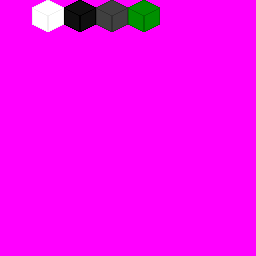
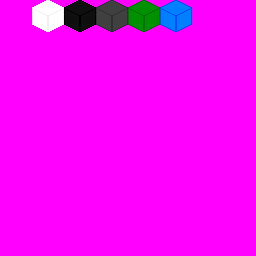
Start adding inventory support

Changed region(s): [[0.625, 0.0, 0.75, 0.125]]

diff --git a/Source/Main.c b/Source/Main.c
@@ -11,10 +11,9 @@
 
 #define AppName "BloccSpacc"
 
-#define GameTick 30
-
 SDL_Surface * Screen = NULL;
 SDL_Event Event;
+#define GameTick 30
 
 SDL_Surface * Cursorset = NULL;
 #define CursorsNum 2
@@ -26,17 +25,19 @@ SDL_Surface * DebugMsg = NULL;
 TTF_Font * DebugFont = NULL;
 SDL_Color DebugTextColor = { 80, 80, 80 };
 
+int SelectedBlock;
+bool InGame, InTitleMenu, InInventory;
 bool Quit, Recalc, DebugMode;
 
 // <https://www.libsdl.org/release/SDL-1.2.15/docs/html/guidetimeexamples.html>
-static Uint32 NextTime;
-Uint32 TimeLeft() {
+static Uint32 NextTickTime;
+Uint32 CalcTimeLeft() {
 	Uint32 Now;
 	Now = SDL_GetTicks();
-	if ( NextTime <= Now ) {
+	if ( NextTickTime <= Now ) {
 		return 0;
 	} else {
-		return NextTime - Now;
+		return NextTickTime - Now;
 	}
 }
 
@@ -58,7 +59,7 @@ struct xyz GetBlocksOnScreenNum() {
 	return Num;
 }
 
-bool Init() {
+bool SysInit() {
 	if ( SDL_Init ( SDL_INIT_EVERYTHING ) != 0 ) {
 		printf("[E] Error initializing SDL.\n");
 		return false;
@@ -139,10 +140,10 @@ void EventHandle() {
 		MoveCursor( 9 );
 	}
 	if ( UsedKeys.Place ) {
-		Map[CursorPos.y/BlockSize][CursorPos.z/BlockSize][CursorPos.x/BlockSize] = 0;
+		Map[CursorPos.y/BlockSize][CursorPos.z/BlockSize][CursorPos.x/BlockSize] = SelectedBlock;
 	}
 	if ( UsedKeys.Break ) {
-		Map[CursorPos.y/BlockSize][CursorPos.z/BlockSize][CursorPos.x/BlockSize] = 3;
+		Map[CursorPos.y/BlockSize][CursorPos.z/BlockSize][CursorPos.x/BlockSize] = 0;
 	}
 	UsedKeys.Up = false;
 	UsedKeys.Down = false;
@@ -154,7 +155,11 @@ void EventHandle() {
 	UsedKeys.Break = false;
 }
 
-void DrawMap( struct xyz ChunksNum ) { // TODO: Reoptimize this to draw only visible blocks
+void DrawInventory() {
+
+}
+
+void DrawMap() { // TODO: Reoptimize this to draw only visible blocks
 	for ( int y = 0; y < ChunksNum.y; y++ ) {
 		for ( int z = 0; z < ChunksNum.z; z++ ) {
 			for ( int x = 0; x < ChunksNum.x; x++ ) {
@@ -174,17 +179,29 @@ void SetCamera() {
 	int y = ( CursorPos.y + BlockSize/2 );
 	int z = ( CursorPos.z + BlockSize/2 );
 	struct xyz xyz = OrthoToIso ( x, y, z, 1 );
-    Camera.x = xyz.x - ScreenWidth/2;
-    Camera.z = xyz.z - ScreenHeight*0.80;
+	Camera.x = xyz.x - ScreenWidth/2;
+	Camera.z = xyz.z - ScreenHeight*0.80;
+}
+
+int GetCursorState() {
+/*
+	if ( CursorPos.y < BlockSize * (ChunksNum.y - 1) ) {
+		return -1;
+	}
+*/
+	return 1;
 }
 
 void DrawCursor() {
 	struct xyz CursorCoords = OrthoToIso ( CursorPos.x, CursorPos.y, CursorPos.z, 1 );
-	DrawSurf(
-		CursorCoords.x - Camera.x - BlockSize/2,
-		CursorCoords.z - Camera.z - BlockSize/2 - CursorPos.y/2,
-		Cursorset, & Cursors [1], Screen
-	);
+	int CursorState = GetCursorState();
+	if ( CursorState != -1 ) {
+		DrawSurf(
+			CursorCoords.x - Camera.x - BlockSize/2,
+			CursorCoords.z - Camera.z - BlockSize/2 - CursorPos.y/2,
+			Cursorset, & Cursors [CursorState], Screen
+		);
+	}
 }
 
 void DrawDebug() { // There's a memory leak somewhere here
@@ -232,22 +249,10 @@ void SetRandomNoiseMap() {
 	}
 }
 
-int main( int argc, char* args[] ) {
-	printf("[I] Starting!\n");
-	srand( time( NULL ) );
-
-	if ( !Init() ) {
-		printf("[E] Error initializing SDL.\n");
-		return 1;
-	}
-	if ( !LoadAssets() ) {
-		printf("[E] Error loading assets.\n");
-		return 1;
-	}
-
+void GameInit() {
 	for ( int i = 0; i < CursorsNum; i++ ) {
-		Cursors [i].x = 0;
-		Cursors [i].y = BlockSize * i;
+		Cursors [i].x = BlockSize * i;
+		Cursors [i].y = 0;
 		Cursors [i].w = BlockSize;
 		Cursors [i].h = BlockSize;
 	}
@@ -264,57 +269,82 @@ int main( int argc, char* args[] ) {
 
 	SetRandomNoiseMap();
 	CursorPos.x = BlockSize * (ChunksNum.x - 1);
-	CursorPos.y = 0;
+	CursorPos.y = BlockSize * (ChunksNum.y - 1);
 	CursorPos.z = BlockSize * (ChunksNum.z - 1);
 
+	SelectedBlock = 2;
 	Recalc = true;
+	InGame = true;
+}
+
+int main( int argc, char* args[] ) {
+	printf("[I] Starting!\n");
+	srand( time( NULL ) );
+
+	if ( !SysInit() ) {
+		printf("[E] Error initializing SDL.\n");
+		return 1;
+	}
+	if ( !LoadAssets() ) {
+		printf("[E] Error loading assets.\n");
+		return 1;
+	}
+	GameInit();
 
 	while ( !Quit ) {
-		NextTime = SDL_GetTicks() + GameTick;
+		NextTickTime = SDL_GetTicks() + GameTick;
 		while ( SDL_PollEvent( & Event ) ) {
 			Recalc = true;
 			if ( Event.type == SDL_QUIT ) {
 				Quit = true;
 			}
-			else if ( Event.type == SDL_KEYDOWN ) {
-				if ( Event.key.keysym.sym == KeyEsc ) {
-					Quit = true;
-				}
-			}
 			else if ( Event.type == SDL_KEYUP ) {
-				if ( Event.key.keysym.sym == KeyDebug ) {
+				if ( Event.key.keysym.sym == KeyEsc ) {
+					if ( InGame && !InInventory ) {
+						Quit = true;
+					}
+					if ( InInventory ) {
+						InInventory = false;
+					}
+				}
+				else if ( Event.key.keysym.sym == KeyDebug ) {
 					DebugMode = !DebugMode;
 				}
-				if ( Event.key.keysym.sym == KeyGenFlatMap ) {
+				else if ( Event.key.keysym.sym == KeyInventory ) {
+					if ( InInventory ) {
+						InInventory = false;
+					} else {
+						InInventory = true;
+					}
+				}
+				else if ( Event.key.keysym.sym == KeyGenFlatMap ) {
 					SetSuperflatMap();
 				}
-				if ( Event.key.keysym.sym == KeyGenNoiseMap ) {
+				else if ( Event.key.keysym.sym == KeyGenNoiseMap ) {
 					SetRandomNoiseMap();
 				}
-				
-				if ( Event.key.keysym.sym == KeyUp ) {
+				else if ( Event.key.keysym.sym == KeyUp ) {
 					UsedKeys.Up = true;
 				}
-				if ( Event.key.keysym.sym == KeyRight ) {
+				else if ( Event.key.keysym.sym == KeyRight ) {
 					UsedKeys.Right = true;
 				}
-				if ( Event.key.keysym.sym == KeyDown ) {
+				else if ( Event.key.keysym.sym == KeyDown ) {
 					UsedKeys.Down = true;
 				}
-				if ( Event.key.keysym.sym == KeyLeft ) {
+				else if ( Event.key.keysym.sym == KeyLeft ) {
 					UsedKeys.Left = true;
 				}
-				if ( Event.key.keysym.sym == KeyAbove ) {
+				else if ( Event.key.keysym.sym == KeyAbove ) {
 					UsedKeys.Above = true;
 				}
-				if ( Event.key.keysym.sym == KeyBelow ) {
+				else if ( Event.key.keysym.sym == KeyBelow ) {
 					UsedKeys.Below = true;
 				}
-
-				if ( Event.key.keysym.sym == KeyPlace ) {
+				else if ( Event.key.keysym.sym == KeyPlace ) {
 					UsedKeys.Place = true;
 				}
-				if ( Event.key.keysym.sym == KeyBreak ) {
+				else if ( Event.key.keysym.sym == KeyBreak ) {
 					UsedKeys.Break = true;
 				}
 			}
@@ -322,23 +352,27 @@ int main( int argc, char* args[] ) {
 		if ( Recalc ) {
 			EventHandle();
 			SDL_FillRect( Screen, &Screen->clip_rect, SDL_MapRGB( Screen->format, 0xFF, 0xFF, 0xFF ) );
-			SetCamera();
-			DrawMap( ChunksNum );
-			DrawCursor();
-			if ( DebugMode ) {
-				DrawDebug();
+			if ( InGame && !InInventory ) {
+				SetCamera();
+				DrawMap();
+				DrawCursor();
+				if ( DebugMode ) {
+					DrawDebug();
+				}
+			}
+			if ( InInventory ) {
+				DrawInventory();
 			}
 			if ( !FlipScreen( Screen ) ) {
 				return 1;
 			}
 			Recalc = false;
 		}
-		SDL_Delay( TimeLeft() );
-        NextTime += GameTick;
+		SDL_Delay( CalcTimeLeft() );
+		NextTickTime += GameTick;
 	}
 
 	printf("[I] Exiting!\n");
 	SDL_Quit();
 	return 0;
 }
-

diff --git a/Source/Keys.h b/Source/Keys.h
@@ -4,11 +4,12 @@
 #define		KeyDown			SDLK_DOWN
 #define		KeyLeft			SDLK_LEFT
 #define		KeyRight		SDLK_RIGHT
-#define		KeyEsc			SDLK_ESCAPE
 #define		KeyDebug		SDLK_F3
 
 #ifdef Target_PocketGo
 
+#define		KeyEsc			SDLK_RCTRL		// Reset
+#define		KeyInventory	SDLK_ESCAPE		// Select
 #define		KeyGenFlatMap	SDLK_LSHIFT		// X
 #define		KeyGenNoiseMap	SDLK_SPACE		// Y
 #define		KeyAbove		SDLK_LALT		// A
@@ -18,6 +19,8 @@
 
 #else
 
+#define		KeyEsc			SDLK_ESCAPE
+#define		KeyInventory	SDLK_i
 #define		KeyGenFlatMap	SDLK_F6
 #define		KeyGenNoiseMap	SDLK_F7
 #define		KeyAbove		SDLK_LSHIFT

diff --git a/Source/Blocks.h b/Source/Blocks.h
@@ -1,7 +1,7 @@
 #pragma once
 #include "SDL/SDL.h"
 
-#define BlocksetNum 5
+#define BlocksetNum 6
 #define BlockSize 32
 #define ChunkSize 16
 
@@ -20,4 +20,5 @@ struct Block Blocks[BlocksetNum] = {
 	{ 2, "Black", {}, 0, false, false },
 	{ 3, "Gray", {}, 0, false, false },
 	{ 4, "Green", {}, 0, false, false },
+	{ 5, "Blue", {}, 0, false, false },
 };

diff --git a/README.md b/README.md
@@ -2,6 +2,10 @@
 
 BloccSpacc is a portable isometric voxel sandbox game, mainly focused on building.
 
+### Development status and compatibility note
+
+The game is still in heavy development. Edges are rough, stuff might break from one day to the other, saved maps might not work across new versions, and support for different platforms might break between updates. Play at your own risk.
+
 ### Development status / roadmap:
 
 - [x] Breaking/placing blocks
@@ -15,8 +19,8 @@ BloccSpacc is a portable isometric voxel sandbox game, mainly focused on buildin
 - [ ] Zooming in/out on the map
 - [ ] Water+Lava physics
 - [ ] Random terrain generation
+- [ ] Lighting/shading (it's hard to see some blocks on different layers)
 - [ ] Day/Night cycle
-- [ ] Lighting
 - [ ] Infinite maps (?)
 - [ ] Sounds
 - [ ] Screenshots
@@ -28,3 +32,12 @@ BloccSpacc is a portable isometric voxel sandbox game, mainly focused on buildin
 - [ ] Refined inputs
 - [ ] Customize memory allocation
 - [ ] Customize controls
+
+### Current and planned platforms
+
+- [x] Desktop GNU+Linux (main development platform)
+- [x] Miyoo CFW Linux (tested on PocketGo)
+- [ ] Android
+- [ ] Win32 (Windows 95 and up)
+- [ ] Nintendo GBA
+- [ ] Symbian
